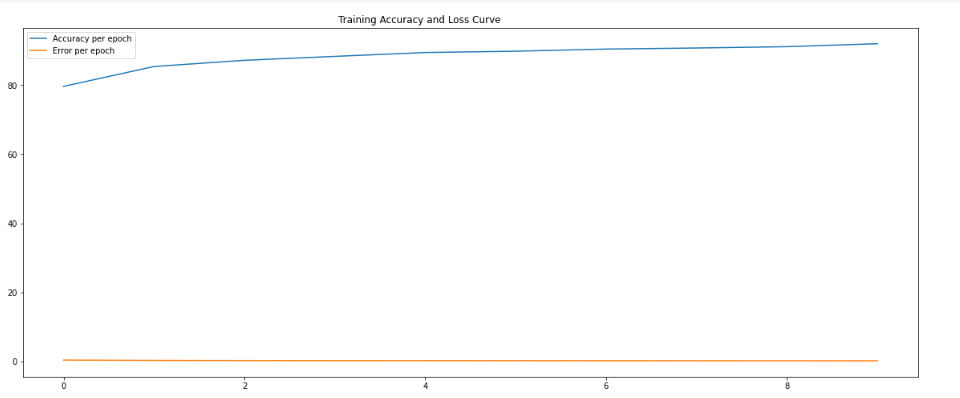
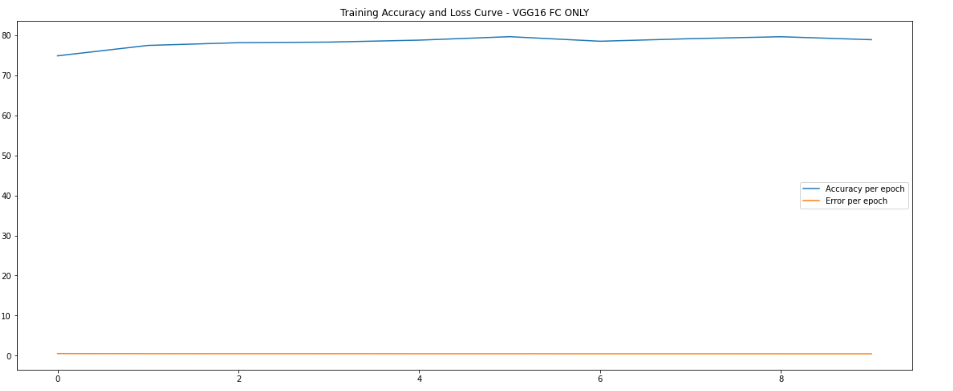
armugha03

Changed region(s): [[0.0, 0.0, 0.9738, 0.9821], [0.8216, 0.4604, 0.9738, 0.5217], [0.0609, 0.1841, 0.1217, 0.2148]]

diff --git a/README.md b/README.md
@@ -22,6 +22,10 @@ In PyTorch, each layer's weights are stored in a Tensor. Each tensor has an attr
 
 ## Task Details:
 So in these two tasks, I have to fine tuned the layers in the models. So first, I just fetched the pre trained models of RESNET18 and VGG16. In both models, I just delete the last Fully Connected (FC) Layer and then fine tuned the output FC Layer according to my dataset as the pretrained models were trained on 1000 class outputs while here we had only two classes i.e. (Infected, Normal) so I added two new FC layers. One was the layer with the size of 4300 neurons because the formula for this one was (Last two digits of My University Roll Number (42 is mine) * 100 + 100 ), and the last one was the layer with 2 neurons as output because of our classes. This process is done in both models. 
+
+### Experimental Setup: 
+Learning rate = 0.001 , number of layers fine-tuned = varies on the model and number of epochs: 10 
+
 #### For RESNET18: 
 The Training Accuracy/Loss Curves are:
 
@@ -36,8 +40,25 @@ The Training Accuracy/Loss Curves are:
 Similarly the Validation Curves are:
 ![VGG16_Validation_FC_ONLY](Images/VGG16_Validation_FC_ONLY.png)
 
+Next I unfreezed few CNN Layers from both models and repeated the same process again and then in the end I unfreezed all layers and trained again on both models 
+
+#### For RESNET18: 
+The Training Accuracy/Loss Curves are:
+
+![Renset18_Full](Images/Renset18_Full.png)
+Similarly the Validation Curves are:
+![Renset18_Validation_Full](Images/Renset18_Validation_Full.png)
+
+#### For VGG15
+The Training Accuracy/Loss Curves are:
+
+![VGG16_Few_CNNs_Only](Images/VGG16_Few_CNNs_Only.png)
+Similarly the Validation Curves are:
+![VGG16_Validation_Few_CNNs_Only](Images/VGG16_Validation_Few_CNNs_Only.png)
+
+
 ## Trained Models:
-All the trained models can be found at: https://drive.google.com/open?id=1Vh9kLEUMKrnnYqpGTaPxx8gA7j-Pyx90
+For each step The models, i have trained, were dumped on the google drive. All the trained models can be found at: https://drive.google.com/open?id=1Vh9kLEUMKrnnYqpGTaPxx8gA7j-Pyx90
 
 ### Analysis on each task and comparison of experiments to each other:
 In task 1, when we only trained only last layer, it caused a lot of over fitting in both models and the accuracy was too high but again data for COVID19 is too small and too similar to pneumonia. While when I just unfreeze few CNN layers in task 2 models learn few more, but the overfitting was still the problem as we can see in the notebook and images above. Similarly even on fully unfreezed models was still causing the problems of overfitting but far less because of the data as it is too young and immature.
